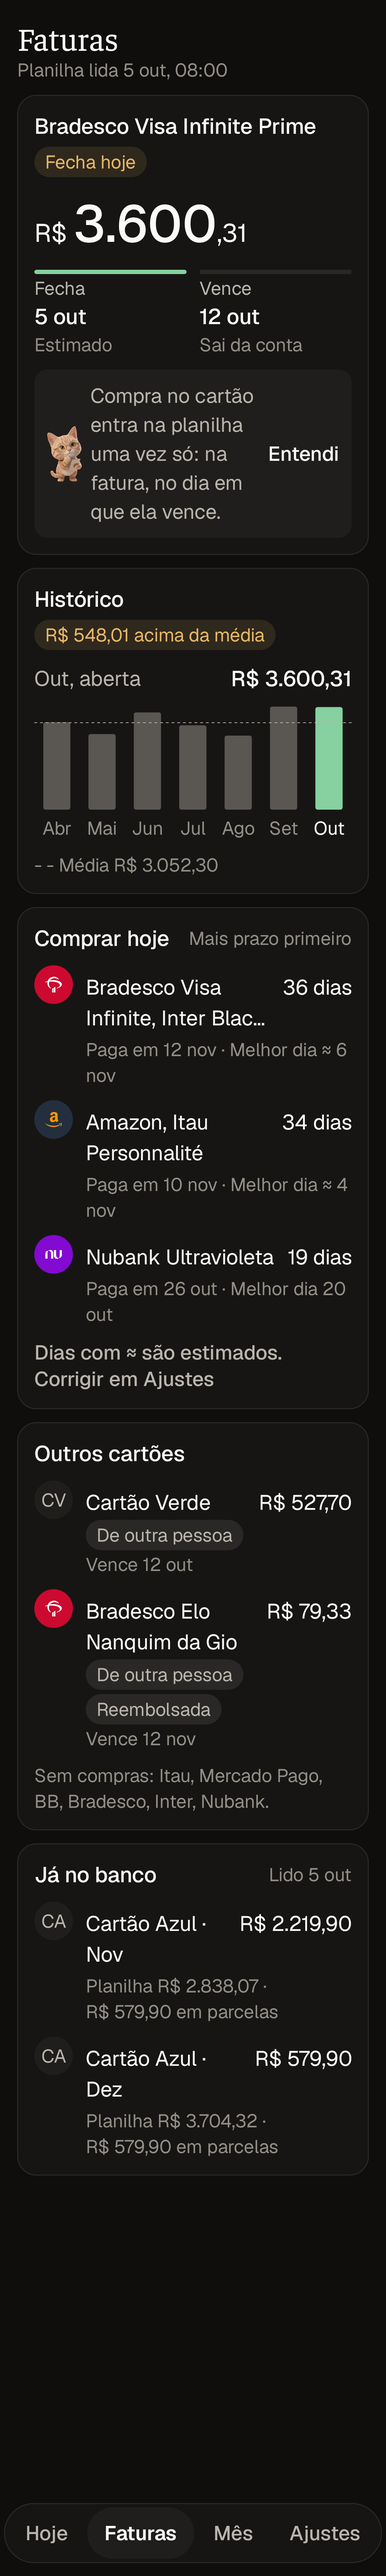
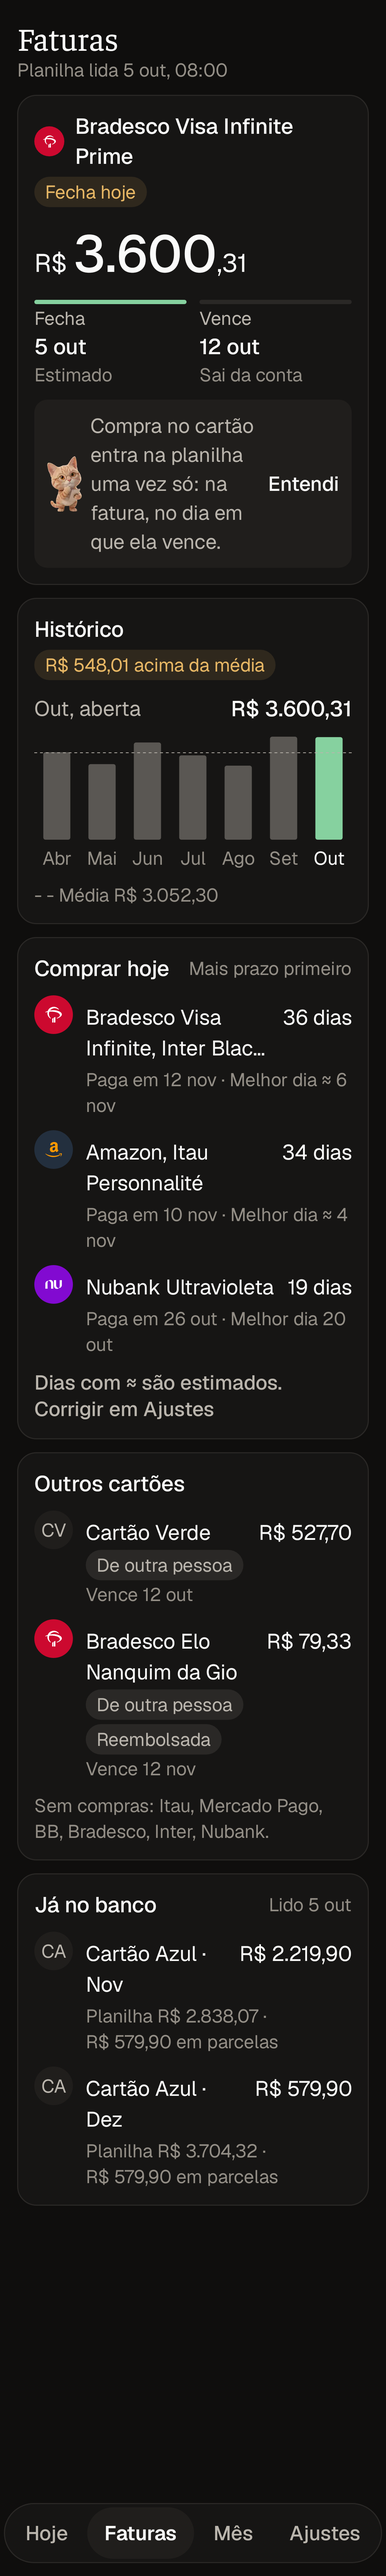
Põe a marca do banco antes do nome do cartão nas Faturas e corrige o chip de fechamento (Fecha hoje, amanhã, em N dias)
O chip contava o dia de hoje e dizia "Fecha em 2 dias" quando a fatura fechava amanhã.

Claude-Session: https://claude.ai/code/session_015puGdtXzviPEaqxJtpNLAQ

diff --git a/apps/android/app/src/main/kotlin/dev/johnlaff/neko/ui/Parts.kt b/apps/android/app/src/main/kotlin/dev/johnlaff/neko/ui/Parts.kt
@@ -14,6 +14,7 @@ import androidx.compose.foundation.layout.Row
 import androidx.compose.foundation.layout.Spacer
 import androidx.compose.foundation.layout.fillMaxWidth
 import androidx.compose.foundation.layout.padding
+import androidx.compose.foundation.layout.size
 import androidx.compose.foundation.layout.width
 import androidx.compose.foundation.shape.RoundedCornerShape
 import androidx.compose.material3.MaterialTheme
@@ -68,7 +69,13 @@ fun Panel(modifier: Modifier = Modifier, content: @Composable ColumnScope.() -> 
 /** Title on the left, a chip or a count on the right; the chip drops below when both don't fit. */
 @OptIn(ExperimentalLayoutApi::class)
 @Composable
-fun PanelHead(title: String, trailing: @Composable () -> Unit = {}) {
+fun PanelHead(
+    title: String,
+    /** A card's name: when it names a known bank, its mark sits before the title. */
+    card: String? = null,
+    trailing: @Composable () -> Unit = {},
+) {
+    val bank = card?.let(::institutionOf)
     // A wide chip ("R$ 1.023,02 abaixo da média") used to squeeze the title to "His…" on a small
     // phone; wrapping keeps both whole.
     FlowRow(
@@ -77,7 +84,18 @@ fun PanelHead(title: String, trailing: @Composable () -> Unit = {}) {
         verticalArrangement = Arrangement.spacedBy(6.dp),
         itemVerticalAlignment = Alignment.CenterVertically,
     ) {
-        Text(title, style = MaterialTheme.typography.titleMedium, modifier = Modifier.padding(end = 8.dp).semantics { heading() })
+        Row(Modifier.padding(end = 8.dp), verticalAlignment = Alignment.CenterVertically) {
+            if (bank != null) {
+                androidx.compose.foundation.layout.Box(
+                    Modifier.size(28.dp).background(Color(bank.bg), androidx.compose.foundation.shape.CircleShape),
+                    contentAlignment = Alignment.Center,
+                ) {
+                    androidx.compose.material3.Icon(androidx.compose.ui.res.painterResource(bank.mark), contentDescription = null, tint = Color(bank.fg), modifier = Modifier.size(17.dp))
+                }
+                Spacer(Modifier.width(10.dp))
+            }
+            Text(title, style = MaterialTheme.typography.titleMedium, modifier = Modifier.semantics { heading() })
+        }
         trailing()
     }
 }

diff --git a/apps/neko/src/web/screens/Faturas.tsx b/apps/neko/src/web/screens/Faturas.tsx
@@ -1,9 +1,10 @@
 import { Link } from "@tanstack/react-router";
 import { useState } from "react";
+import { institutionOf } from "../../shared/institutions.ts";
 import type { BankView } from "../../shared/types.ts";
 import { CardAvatar } from "../CardAvatar.tsx";
 import { BigMoney, Columns } from "../Figures.tsx";
-import { capitalize, days, money, monthName, shortDate } from "../format.ts";
+import { capitalize, closesIn, days, money, monthName, shortDate } from "../format.ts";
 import { Hint } from "../Hint.tsx";
 import { HINTS } from "../learn.ts";
 import { Mascot } from "../Mascot.tsx";
@@ -78,11 +79,13 @@ export const Faturas = () => {
             {usual && (
               <section className="panel hero">
                 <div className="panel-head">
-                  <h2>{usual.card.name}</h2>
+                  <h2 className="with-mark">
+                    {/* The bank's mark only: two letters next to the name would just repeat it. */}
+                    {institutionOf(usual.card.name) && <CardAvatar name={usual.card.name} />}
+                    {usual.card.name}
+                  </h2>
                   <span className={`chip ${usual.closesInDays <= 3 ? "warn" : "ok"}`}>
-                    {usual.closesInDays <= 1
-                      ? "Fecha hoje"
-                      : `Fecha em ${days(usual.closesInDays)}`}
+                    {closesIn(usual.closesInDays)}
                   </span>
                 </div>
                 <BigMoney cents={usual.onSheet} tone="plain" />

diff --git a/apps/android/app/src/main/kotlin/dev/johnlaff/neko/ui/Format.kt b/apps/android/app/src/main/kotlin/dev/johnlaff/neko/ui/Format.kt
@@ -35,6 +35,16 @@ object Format {
 
     fun days(n: Int): String = if (n == 1) "1 dia" else "$n dias"
 
+    /**
+     * The usual card's closing, from the API's `closesInDays`, which counts today: 1 is today,
+     * 2 tomorrow.
+     */
+    fun closesIn(closesInDays: Int): String = when {
+        closesInDays <= 1 -> "Fecha hoje"
+        closesInDays == 2 -> "Fecha amanhã"
+        else -> "Fecha em ${days(closesInDays - 1)}"
+    }
+
     /** `Hoje`, `Amanhã` or `Quinta, 9 out`, relative to the sheet's today. */
     fun relativeDay(iso: String, today: String): String {
         val diff = ChronoUnit.DAYS.between(LocalDate.parse(today), LocalDate.parse(iso))

diff --git a/apps/neko/src/web/format.ts b/apps/neko/src/web/format.ts
@@ -36,6 +36,14 @@ export const weekday = (iso: string) => WEEKDAYS[new Date(`${iso}T12:00:00Z`).ge
 
 export const days = (n: number) => (n === 1 ? "1 dia" : `${n} dias`);
 
+/** The usual card's closing, from `closesInDays`, which counts today: 1 is today, 2 tomorrow. */
+export const closesIn = (closesInDays: number) =>
+  closesInDays <= 1
+    ? "Fecha hoje"
+    : closesInDays === 2
+      ? "Fecha amanhã"
+      : `Fecha em ${days(closesInDays - 1)}`;
+
 export { sheetCellUrl } from "../shared/sheet.ts";
 
 const LONG_WEEKDAYS = ["domingo", "segunda", "terça", "quarta", "quinta", "sexta", "sábado"];

diff --git a/apps/android/app/src/test/kotlin/dev/johnlaff/neko/FormatTest.kt b/apps/android/app/src/test/kotlin/dev/johnlaff/neko/FormatTest.kt
@@ -28,6 +28,13 @@ class FormatTest {
         assertEquals("3 dias", Format.days(3))
     }
 
+    @Test fun closesIn() {
+        // closesInDays counts today: 1 is today, 2 tomorrow, 4 is three days away.
+        assertEquals("Fecha hoje", Format.closesIn(1))
+        assertEquals("Fecha amanhã", Format.closesIn(2))
+        assertEquals("Fecha em 3 dias", Format.closesIn(4))
+    }
+
     @Test fun typedMoney() {
         assertEquals(17_700L, Format.toCents("177,00"))
         assertEquals(500_000L, Format.toCents(" 5.000 "))

diff --git a/apps/android/app/src/main/kotlin/dev/johnlaff/neko/ui/FaturasScreen.kt b/apps/android/app/src/main/kotlin/dev/johnlaff/neko/ui/FaturasScreen.kt
@@ -52,9 +52,9 @@ private fun shortMonth(iso: String) = capitalize(monthName(iso.substring(5, 7).t
 @Composable
 private fun UsualPanel(u: UsualBill) {
     Panel {
-        PanelHead(u.card) {
+        PanelHead(u.card, card = u.card) {
             Chip(
-                if (u.closesInDays <= 1) "Fecha hoje" else "Fecha em ${days(u.closesInDays)}",
+                Format.closesIn(u.closesInDays),
                 if (u.closesInDays <= 3) ChipTone.Warn else ChipTone.Ok,
             )
         }

diff --git a/apps/neko/src/web/styles.css b/apps/neko/src/web/styles.css
@@ -2454,3 +2454,18 @@ form.mia-form {
   letter-spacing: -0.01em;
   margin-right: 4px;
 }
+/* Faturas: the usual card's bank mark before its name, smaller than a row's */
+.panel-head > h2.with-mark {
+  display: flex;
+  align-items: center;
+  gap: 10px;
+}
+.panel-head > h2.with-mark > span.avatar {
+  width: 28px;
+  height: 28px;
+  border-radius: 8px;
+}
+.panel-head > h2.with-mark > span.avatar.brand > svg {
+  width: 18px;
+  height: 18px;
+}

diff --git a/apps/neko/test/format.test.ts b/apps/neko/test/format.test.ts
@@ -1,0 +1,10 @@
+import { describe, expect, it } from "vitest";
+import { closesIn } from "../src/web/format.ts";
+
+describe("closesIn", () => {
+  it("counts today in closesInDays: 1 is today, 2 tomorrow", () => {
+    expect(closesIn(1)).toBe("Fecha hoje");
+    expect(closesIn(2)).toBe("Fecha amanhã");
+    expect(closesIn(4)).toBe("Fecha em 3 dias");
+  });
+});
